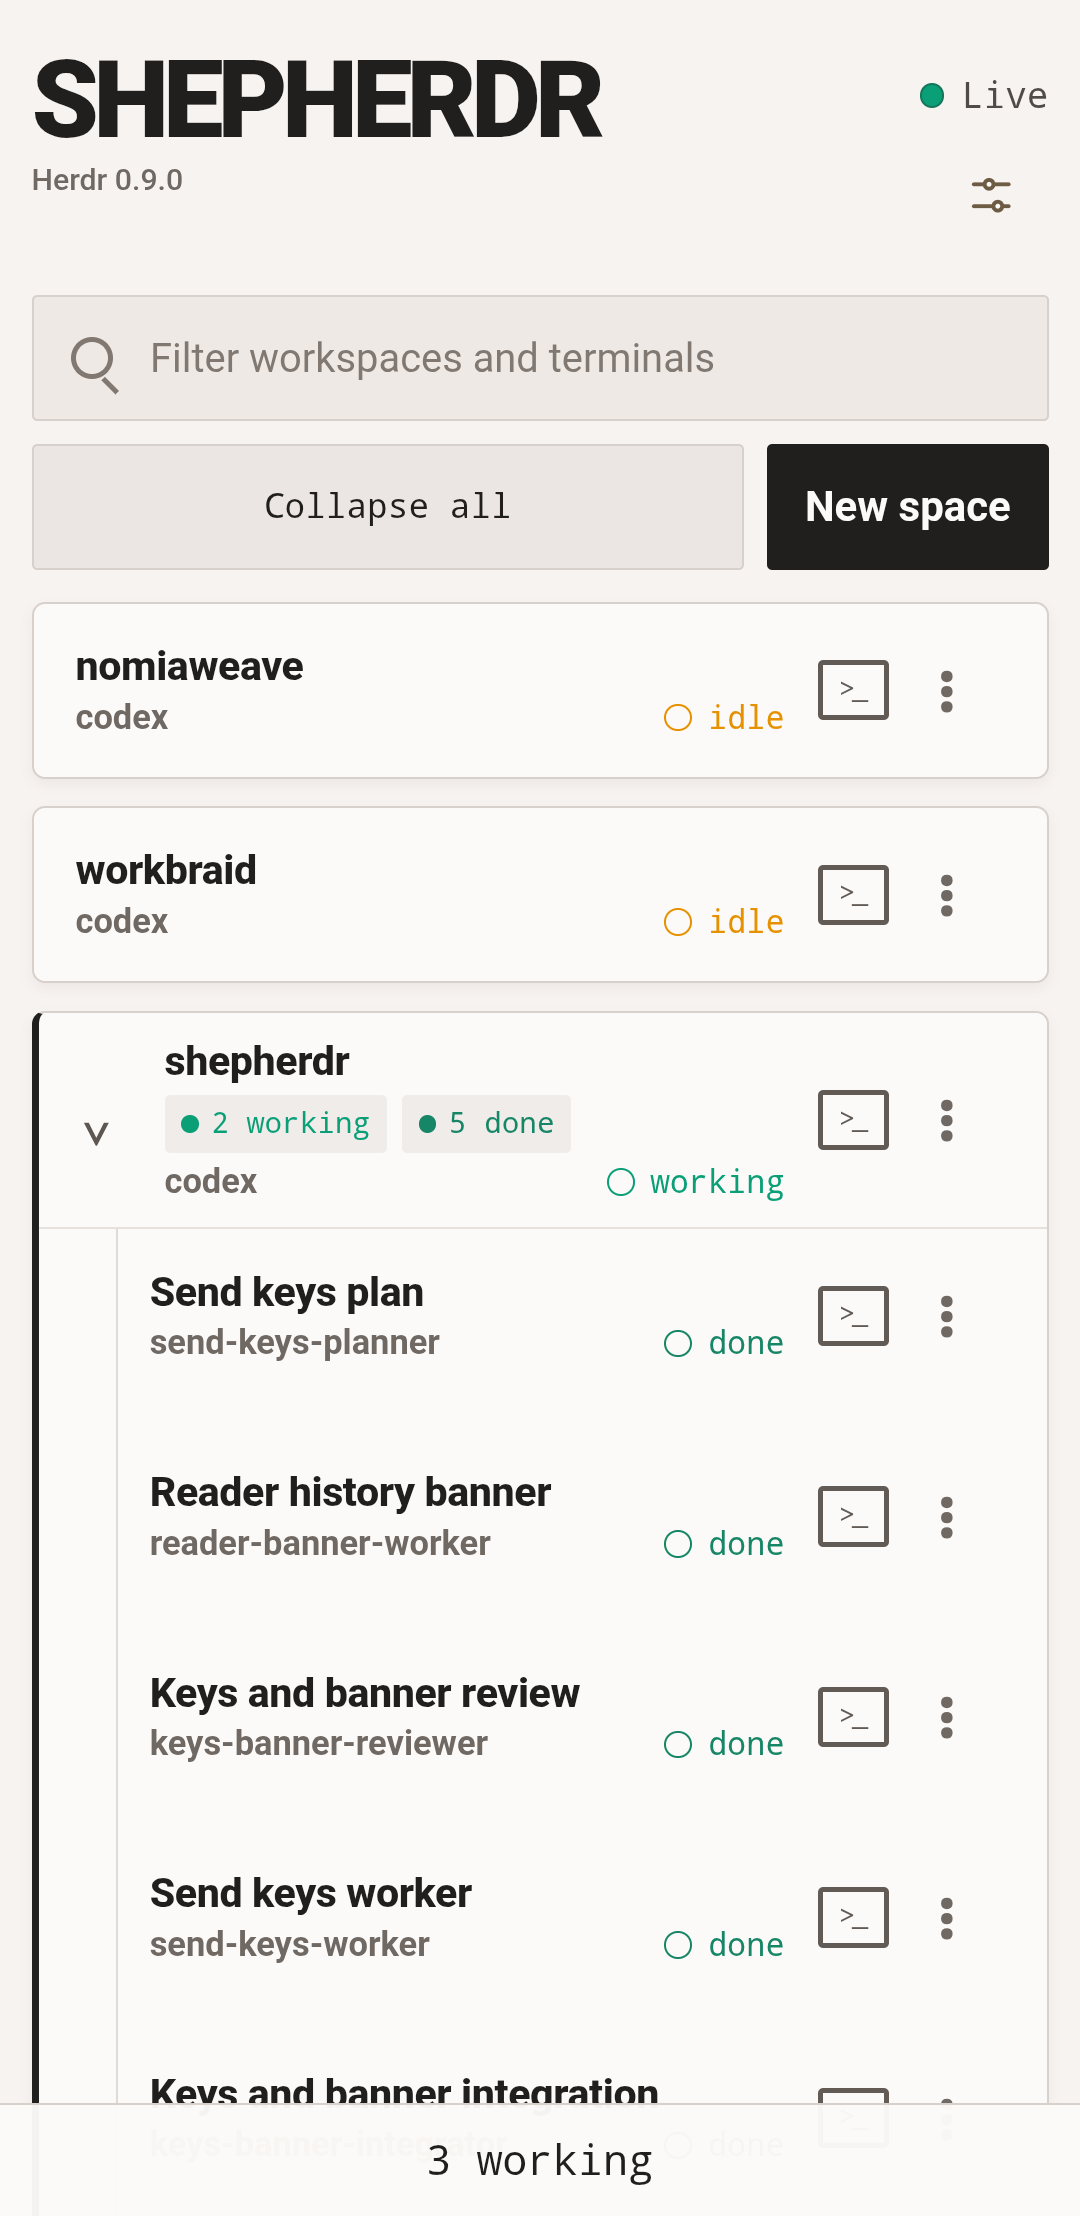
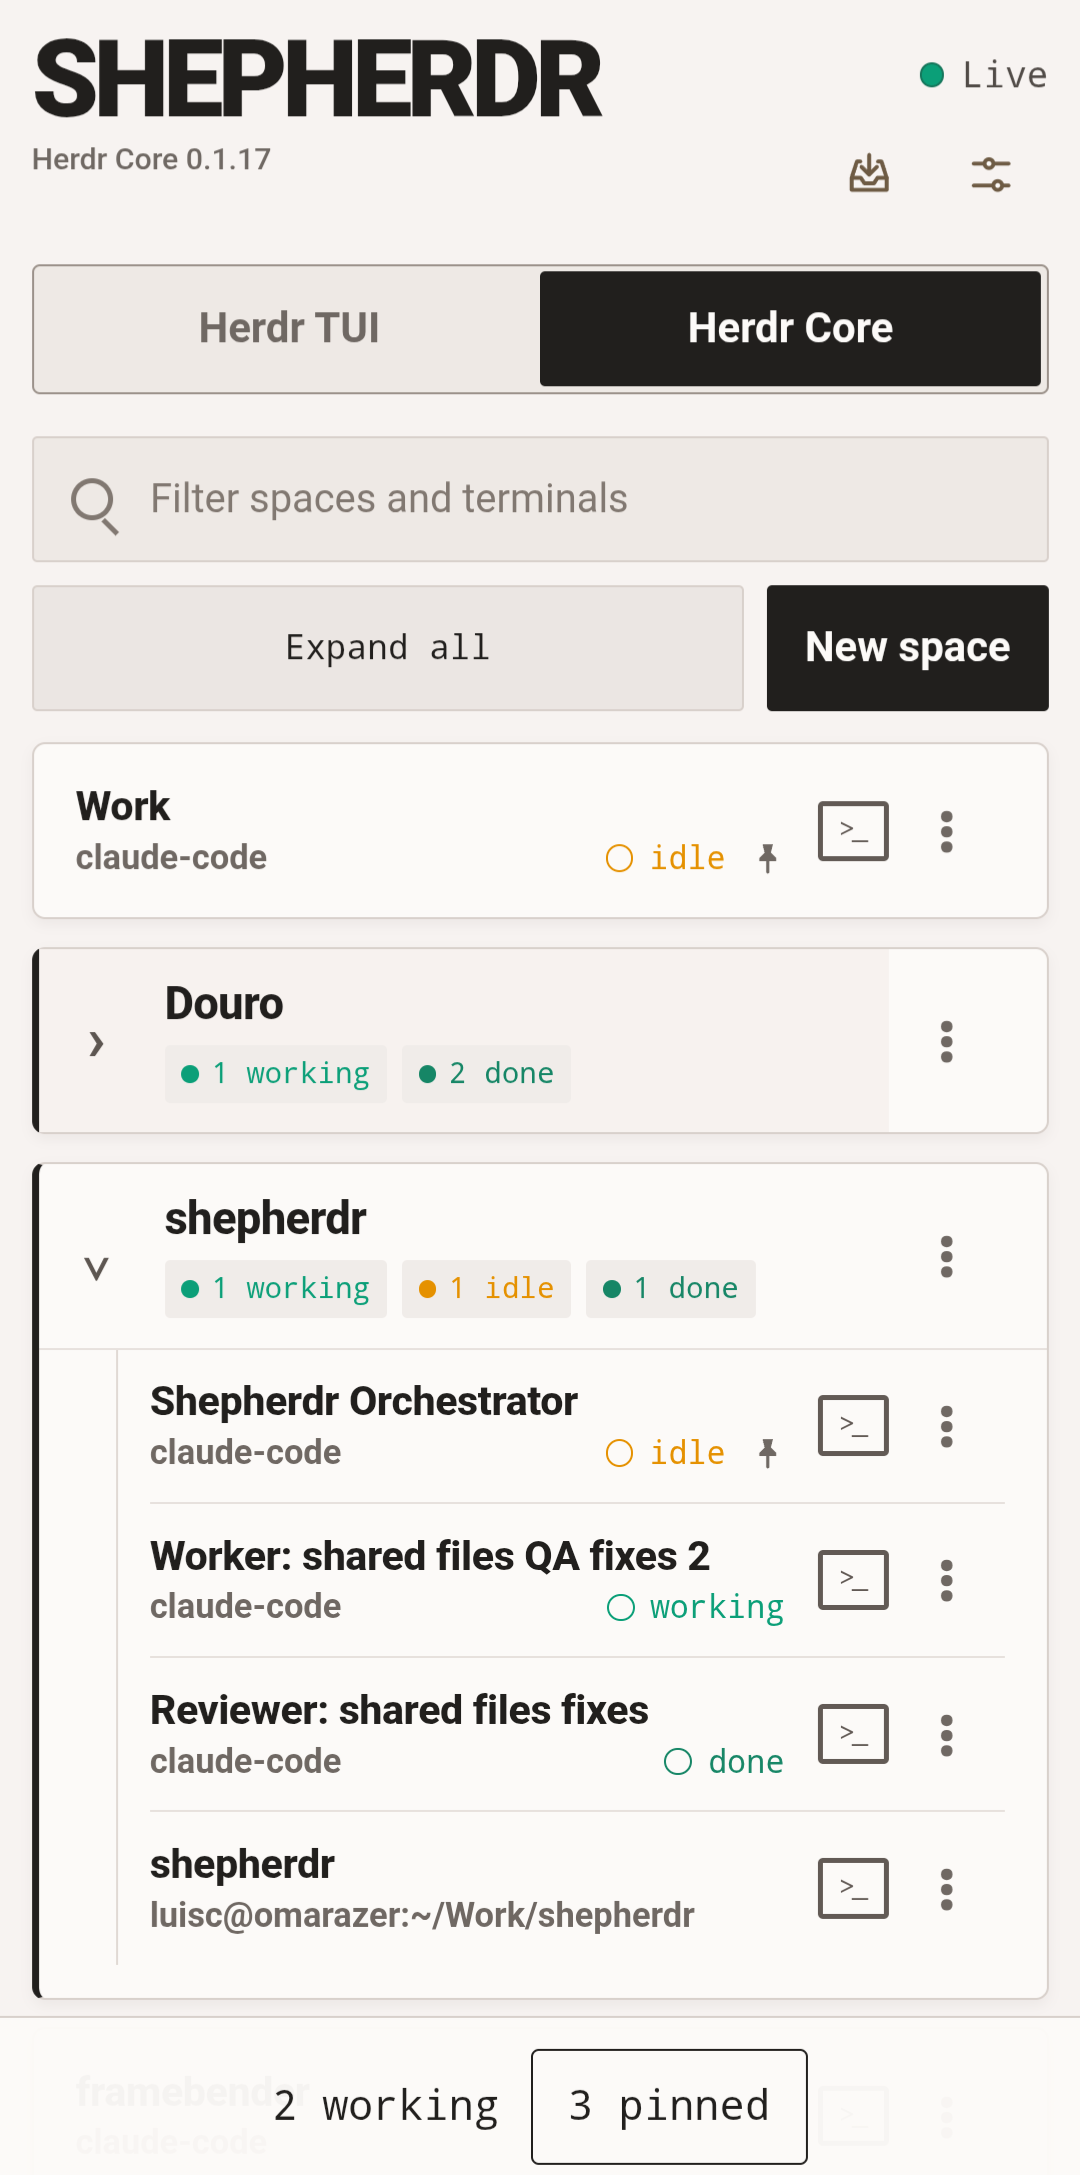
docs: refresh the README screenshots, add Shared files, and name the Herdr app 0.1.13 range in the plans

diff --git a/README.md b/README.md
@@ -3,18 +3,21 @@
 <table>
   <tr>
     <td rowspan="2" width="33%" align="center" valign="top">
-      <a href="docs/images/home.png"><strong>Home</strong><br><img src="docs/images/home.png" width="270" alt="Home with grouped terminals, agent statuses, and the working count"></a>
+      <a href="docs/images/home.png"><strong>Home</strong><br><img src="docs/images/home.png" width="270" alt="Home in the Herdr Core view with spaces, their tabs, agent statuses, pins, and the working and pinned counts"></a>
     </td>
     <td width="33%" height="1" align="center" valign="top">
       <a href="docs/images/send-files.png"><strong>Reader and files</strong><br><img src="docs/images/send-files.png" width="270" alt="Reader with terminal output, a message, selected screenshots, and terminal controls"></a>
     </td>
-    <td rowspan="2" width="33%" align="center" valign="top">
-      <a href="docs/images/send-keys.png"><strong>Send keys</strong><br><img src="docs/images/send-keys.png" width="270" alt="Terminal header and Reader output above Send keys with modifiers, common keys, and a shortcut preview"></a>
+    <td width="33%" height="1" align="center" valign="top">
+      <a href="docs/images/send-keys.png"><strong>Send keys</strong><br><img src="docs/images/send-keys.png" width="270" alt="Send keys with modifiers, common keys, and a shortcut preview, over the terminal"></a>
     </td>
   </tr>
   <tr>
     <td align="center" valign="top">
       <a href="docs/images/notifications.png"><strong>Notifications</strong><br><img src="docs/images/notifications.png" width="270" alt="Shepherdr notifications in the phone's notification panel"></a>
+    </td>
+    <td align="center" valign="top">
+      <a href="docs/images/shared-files.png"><strong>Shared files</strong><br><img src="docs/images/shared-files.png" width="270" alt="Shared files from an agent, grouped by agent"></a>
     </td>
   </tr>
 </table>

diff --git a/docs/herdr-core-actions-plan.md b/docs/herdr-core-actions-plan.md
@@ -204,7 +204,7 @@ There is no retry.
 
 **Gate.**
 - At start: `--version` and `commands`.
-- Validated: 0.1.10 through 0.1.12. Newer versions run best effort with a warning, like core.
+- Validated: 0.1.10 through 0.1.13. Newer versions run best effort with a warning, like core.
 - Required commands and arguments:
   - `space.new {name, folder}`;
   - `pane.split {direction, pane}`;
@@ -348,7 +348,7 @@ New section 4b, "App window actions" (wave 3b only):
 ## 4b. App window actions (wave 3b)
 
 - Shepherdr runs `herdr-app` from `PATH` only as `--version`, `commands`, `status` and `do <command> <one JSON object>`, with no shell. It never runs bare `herdr-app`, which opens the window. If `herdr-app` is missing, or Shepherdr follows a non-default core socket, app actions are off and this is logged once.
-- Gate: herdr-app 0.1.10 through 0.1.12 validated; newer runs best effort with a warning. `commands` must list `space.new {name, folder}`, `pane.split {direction, pane}` and `space.rename {id, name}`.
+- Gate: herdr-app 0.1.10 through 0.1.13 validated; newer runs best effort with a warning. `commands` must list `space.new {name, folder}`, `pane.split {direction, pane}` and `space.rename {id, name}`.
 - Window open = `herdr-app status` exits 0 within 2 s. It is checked every 5 s and before each app action. A change publishes one complete Home.
 - Results: exit 0 = succeeded; "the window did not answer", "the window hung up", or a timeout = unknown; "no Herdr window" = not sent ("The Herdr app window is closed. Open it on the computer, then try again."); other errors = refused, with the app's message. There is no retry. Afterwards, one complete core read.
 - New space shows the new space in the app window. New terminal focuses the new pane when its tab is shown there.

diff --git a/docs/herdr-core-plan.md b/docs/herdr-core-plan.md
@@ -299,7 +299,7 @@ The existing Super note stays: it reaches only programs that turned on enhanced 
 ## 4b. App window actions (wave 3b)
 
 - Shepherdr runs `herdr-app` from `PATH` only as `--version`, `commands`, `status` and `do <command> <one JSON object>`, with no shell. It never runs bare `herdr-app`, which opens the window. If `herdr-app` is missing, or Shepherdr follows a non-default core socket, app actions are off and this is logged once.
-- Gate: herdr-app 0.1.10 through 0.1.12 validated; newer runs best effort with a warning. `commands` must list `space.new {name, folder}`, `pane.split {direction, pane}` and `space.rename {id, name}`.
+- Gate: herdr-app 0.1.10 through 0.1.13 validated; newer runs best effort with a warning. `commands` must list `space.new {name, folder}`, `pane.split {direction, pane}` and `space.rename {id, name}`.
 - Window open = `herdr-app status` exits 0 within 2 s. Home asks every 5 s and after each action, apart from the core reads, so a window that stops answering reads as closed without holding up Home. Each app action also asks first. A change publishes one complete Home.
 - Results: exit 0 = succeeded; "the window did not answer", "the window hung up", or a timeout = unknown; "no Herdr window" = not sent ("The Herdr app window is closed. Open it on the computer, then try again."); other errors = refused, with the app's message. There is no retry. Afterwards, one complete core read.
 - New space shows the new space in the app window. New terminal focuses the new pane when its tab is shown there.
